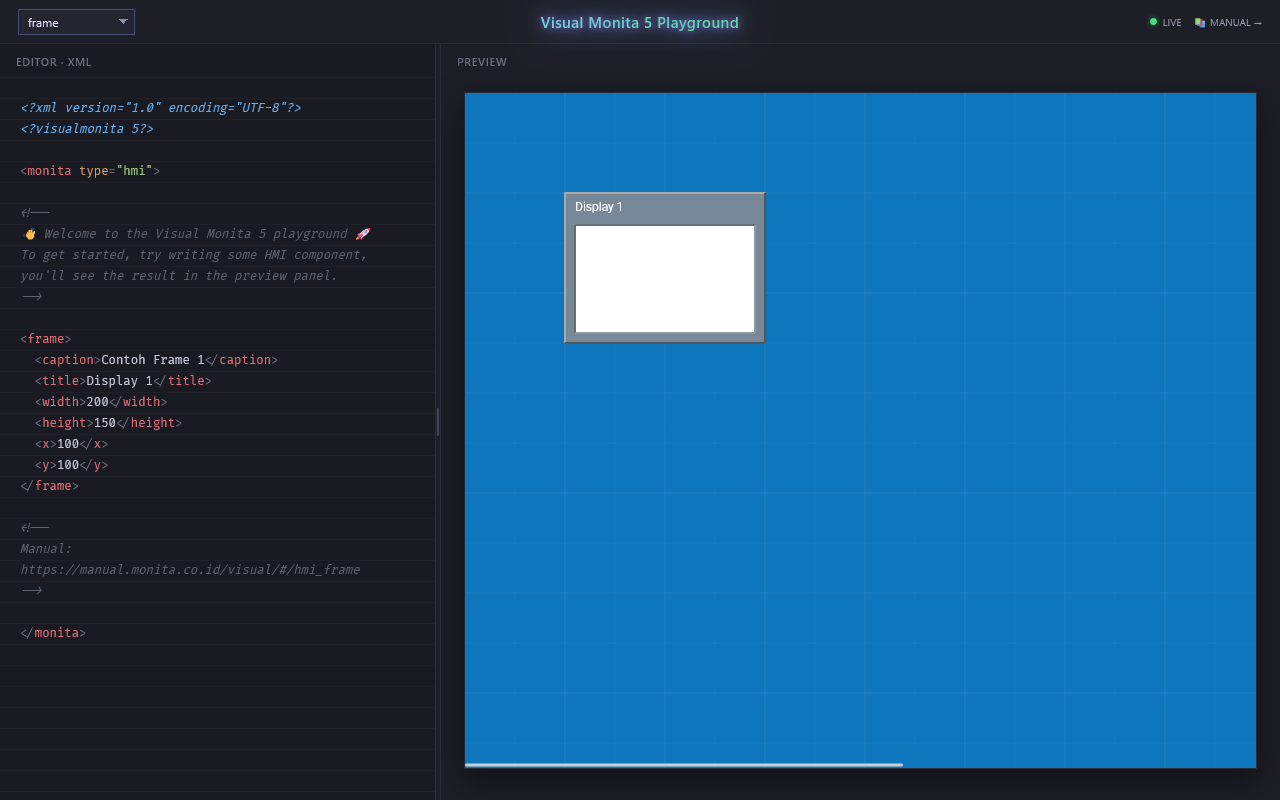
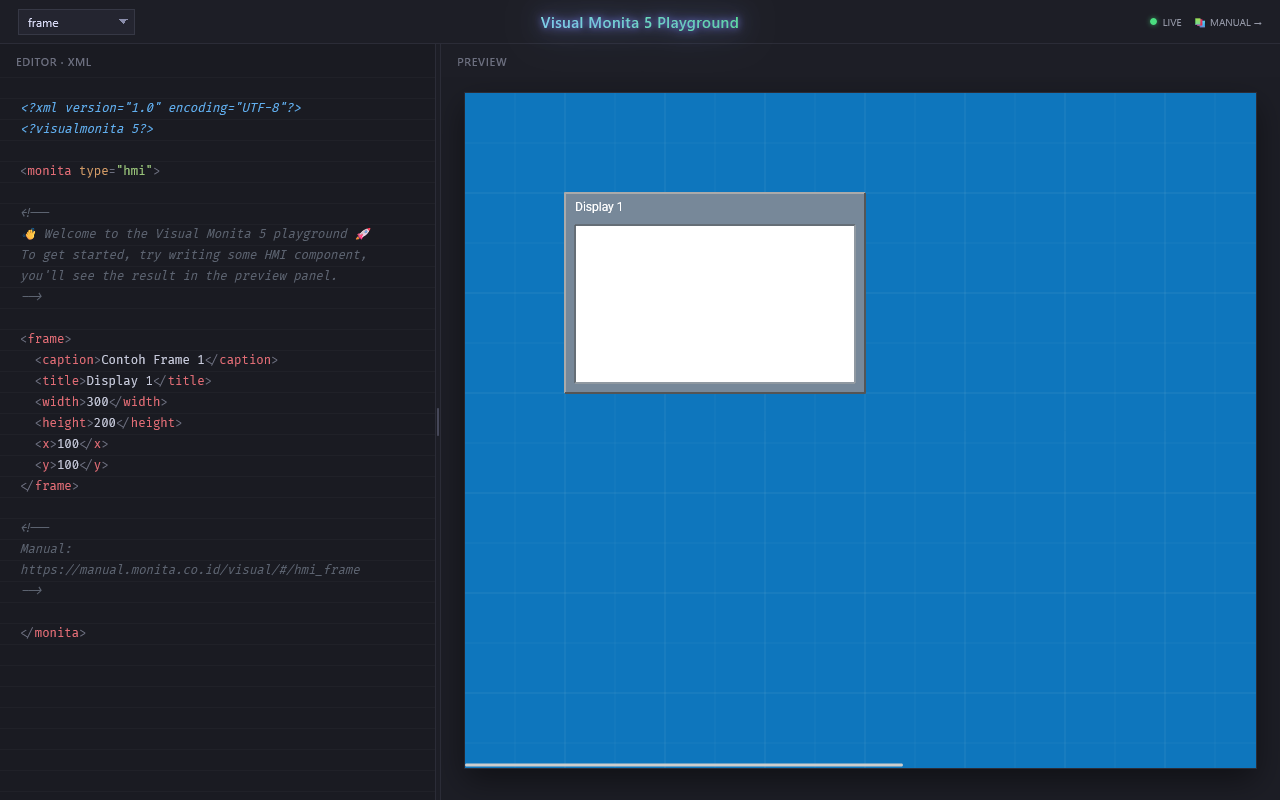
update sample images

Changed region(s): [[0.4375, 0.2188, 0.6875, 0.5]]

diff --git a/visual/hmi_trend_chart.md b/visual/hmi_trend_chart.md
@@ -19,6 +19,8 @@ Komponen ini tersedia pada versi `>=5.18.0`. Bertujuan untuk menampilkan data tr
 
 https://playground.monita.co.id/?component=trend_chart
 
+![trend_chart](https://manual.monita.co.id/_assets/images/trend_chart.png)
+
 #### Properti selengkapnya:
 
 | Properti            | Tipe Nilai | Nilai Baku                                           | Pilihan Nilai                  | Keterangan                      |
